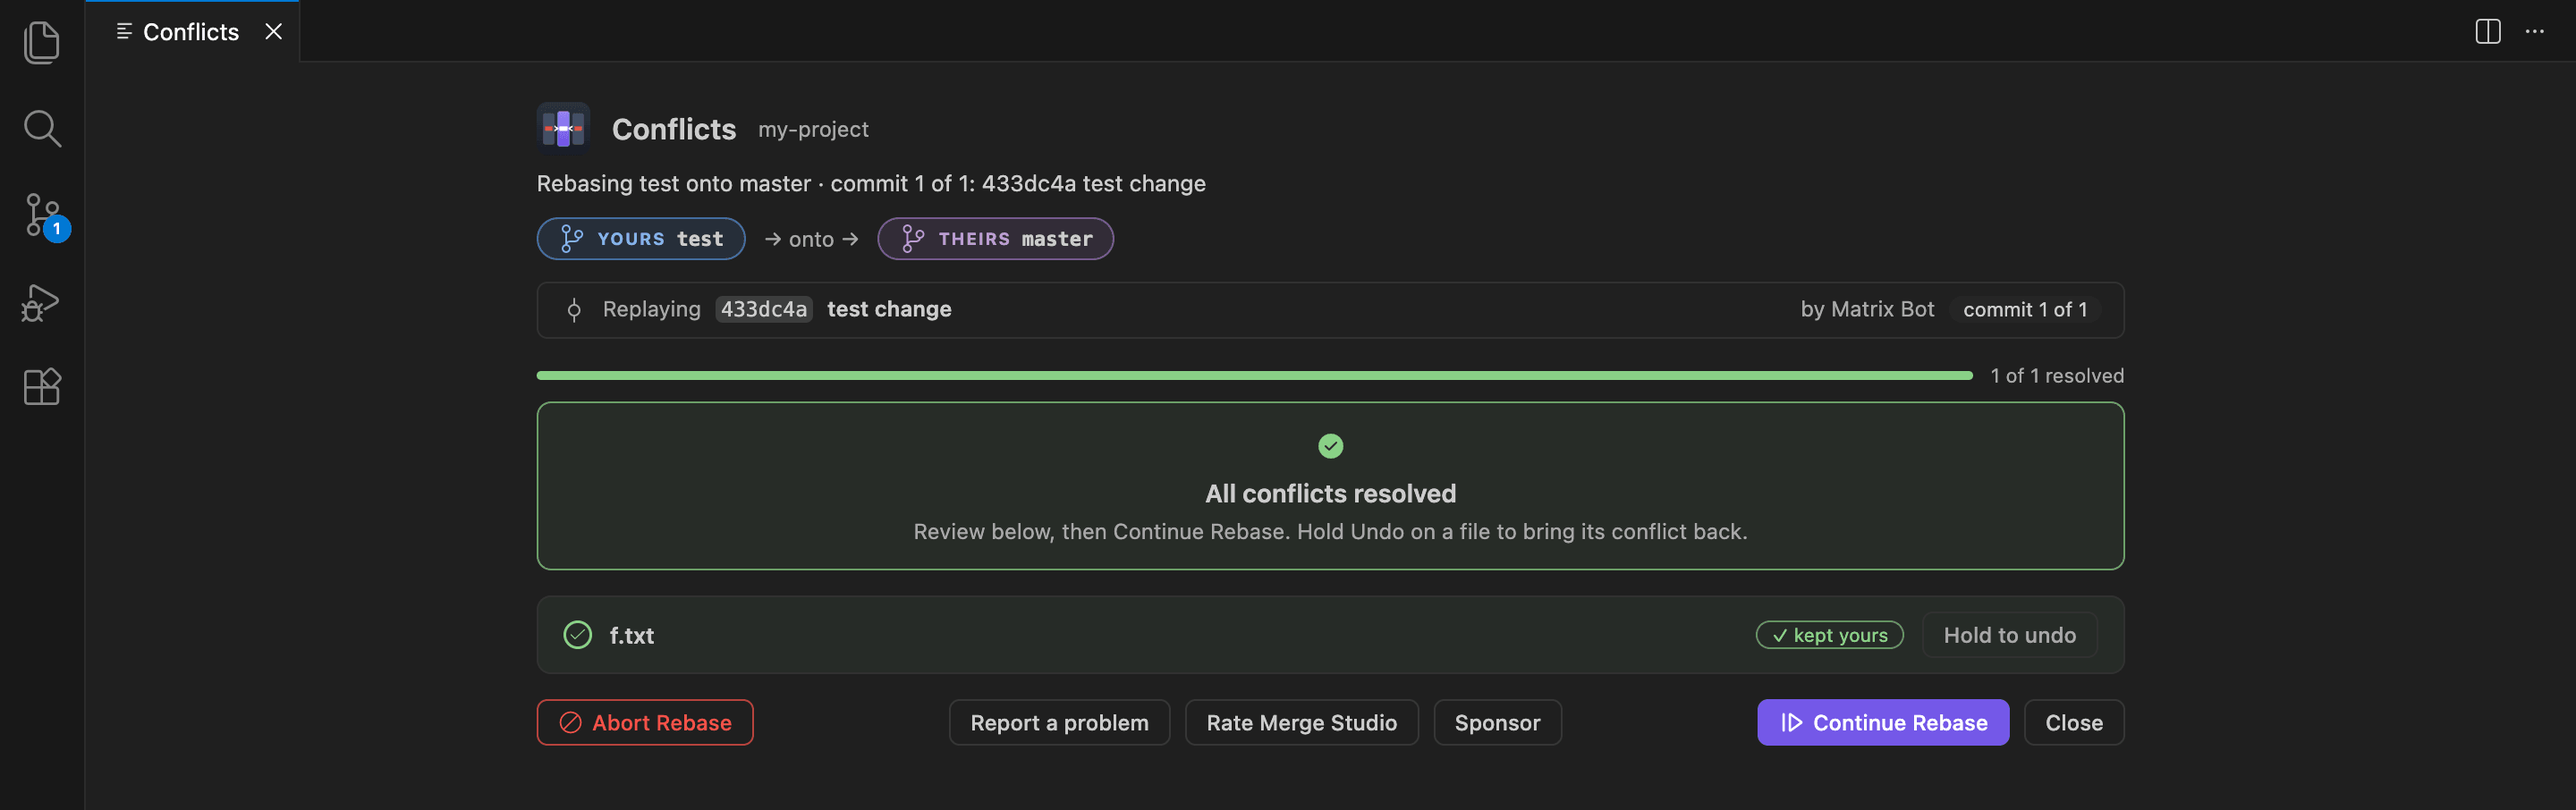
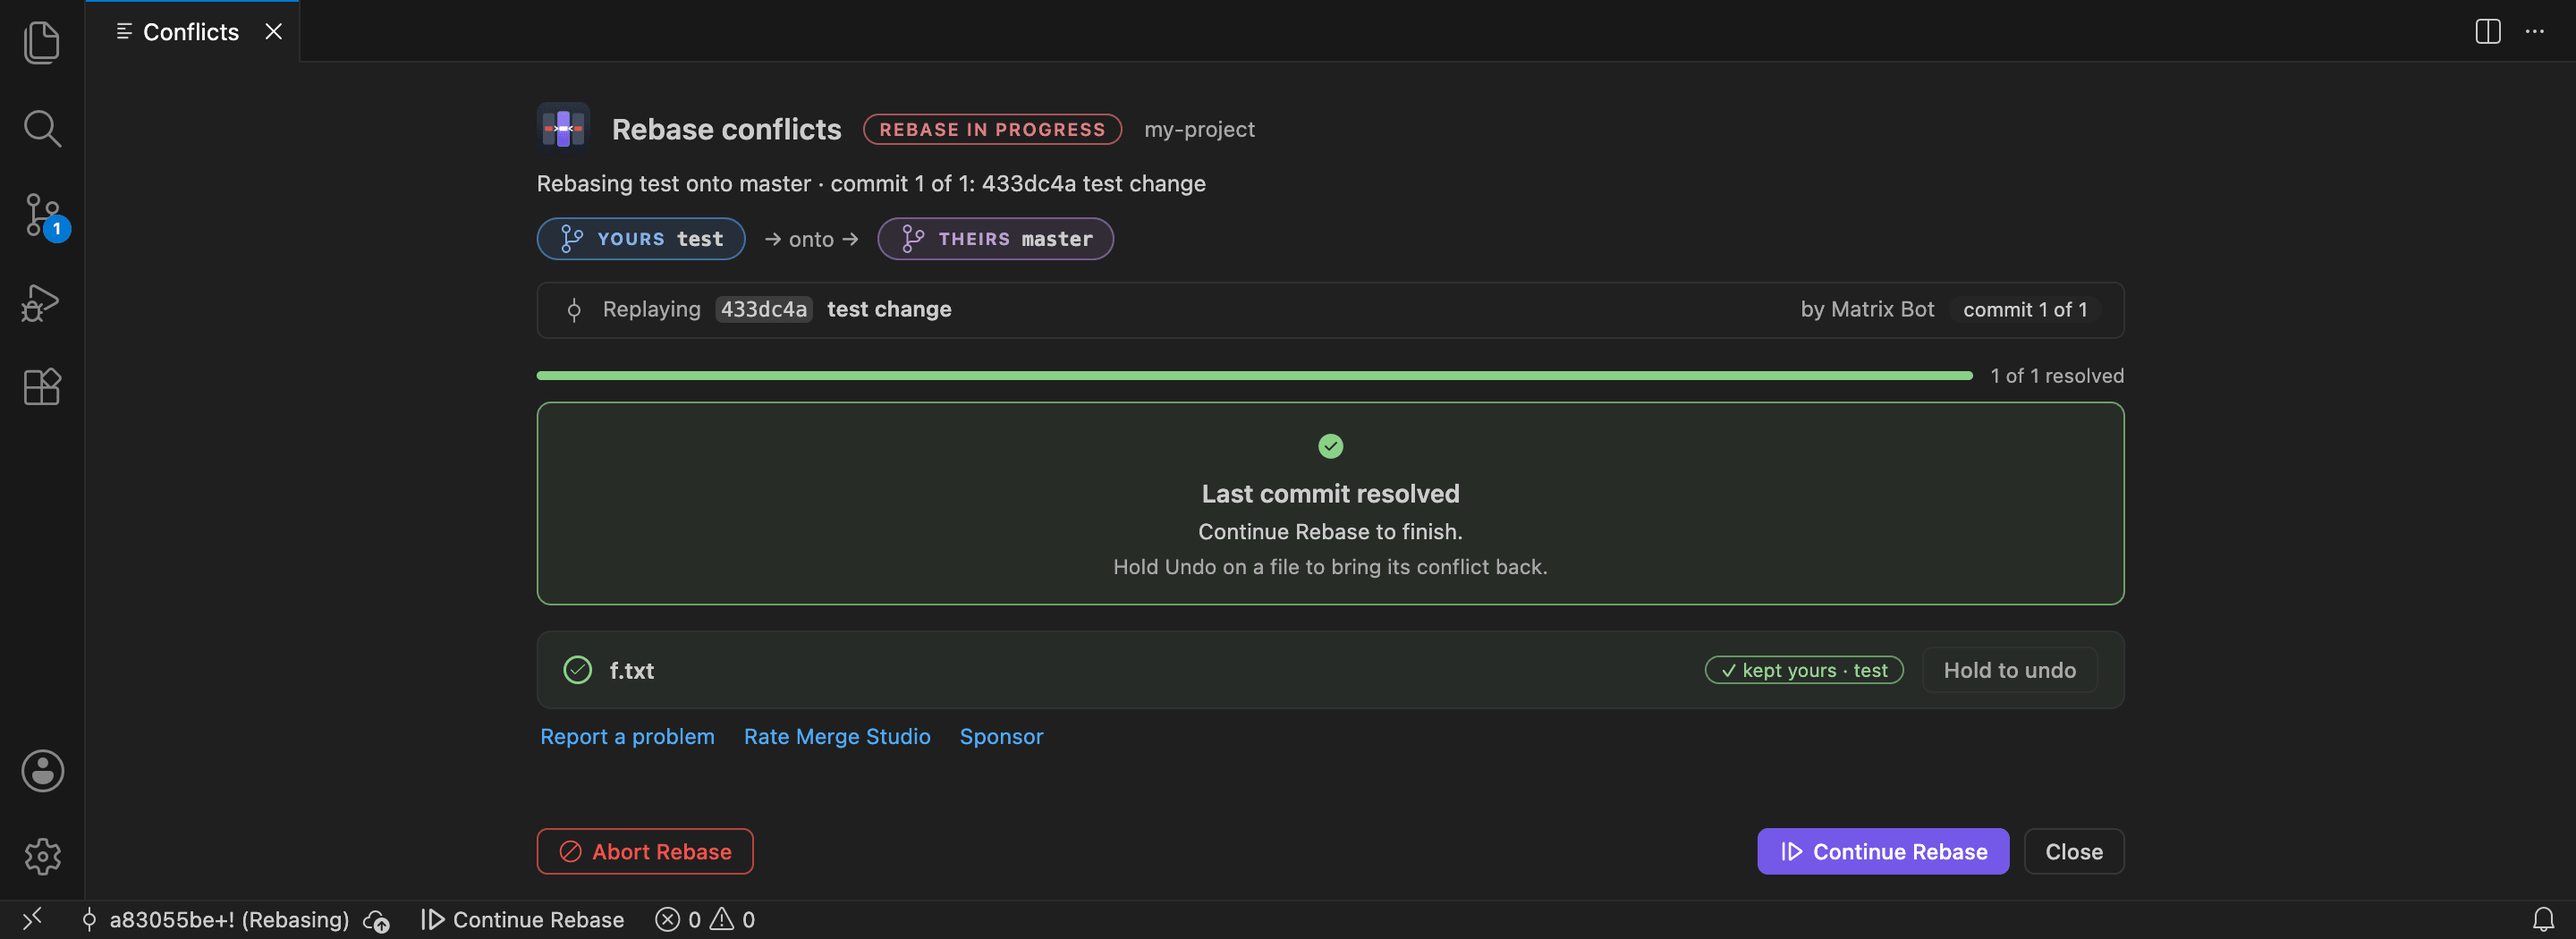
docs(merge-studio): re-take the captures this run's fixes changed
The listing and walkthrough showed the dashboard and the merge editor as
they were before r0923's fixes: "Conflicts" over the list, "All conflicts
resolved" at a rebase's last commit, a bare "kept yours" pill, the support
buttons in the footer, plain "Accept Yours / Accept Theirs", and the old
tints. Re-taken from the 1.0.9102 test VSIX (this branch) in isolated,
hidden VS Code 1.138 profiles, Default Dark / Light Modern at 2x, content
from the merge matrix, by the media lane's own steps:

- screenshots: dashboard-rebase, dashboard-done (a 1440x560 window: the
  dashboard fills its pane now and pins its footer), merge-editor-dark,
  merge-editor-light, legend;
- walkthrough, dark and light: sample-merge, legend, rebase-sides,
  dashboard.

Unchanged surfaces keep their captures (no-text panel, diff, the
first-conflict question, both settings frames). hero.gif is not re-taken.

README alt text and SHOTS.md say what the new captures show; SHOTS.md also
records why a hidden window must open at the size it is captured at.
manifest.test.ts pins the dashboard captures' words to the dashboard's.

diff --git a/apps/merge-studio/test/manifest.test.ts b/apps/merge-studio/test/manifest.test.ts
@@ -203,6 +203,21 @@ test("every README image exists", () => {
   for (const src of local) assert.ok(existsSync(join(ROOT, src)), src);
 });
 
+test("the dashboard captures' words are the dashboard's own, as the 1.0 build says them", () => {
+  // Re-taken when the dashboard learned to name the step (r0923): its heading
+  // is the operation's ("Rebase conflicts"), a rebase's last commit resolved
+  // reads "Last commit resolved", and a row's pill names the side's branch.
+  const alt = (file: string) => readme.match(new RegExp(`<img src="media/screenshots/${file}" alt="([^"]+)"`))?.[1] ?? "";
+  const rebase = alt("dashboard-rebase.png");
+  const done = alt("dashboard-done.png");
+  assert.match(rebase, /Rebase conflicts/, rebase);
+  assert.match(done, /Last commit resolved/, done);
+  assert.match(done, /kept yours · test/, done);
+  assert.doesNotMatch(done, /All conflicts resolved/, "the card a rebase shows at its last commit");
+  const shots = read("SHOTS.md");
+  assert.match(shots, /"Last commit resolved"/, "SHOTS.md describes the capture that exists");
+});
+
 // ── CHANGELOG (POLISH B5) ───────────────────────────────────────────────────
 
 const changelog = read("CHANGELOG.md");

diff --git a/apps/merge-studio/SHOTS.md b/apps/merge-studio/SHOTS.md
@@ -14,6 +14,10 @@ bar in frame. Dark shots in **Default Dark Modern**, light shots in
 Check each capture by DOM, not by eye: no "Accept Left", "Changes from
 server", "Your version" or "Screenshot pending" anywhere on screen.
 
+A hidden window paints no NEW frame, so open the window at the size the
+capture emulates (the media script's `winsize` before `launch`): with a
+viewport override of another size, `Page.captureScreenshot` waits forever.
+
 Content comes from the merge matrix (`scripts/merge-e2e/fixtures.sh` in
 gitstudio): `issue12.merge` and `issue12-exact.merge` (the #12 reporter's
 repository), plus the product's own Open Sample Merge and Open Sample Diff.
@@ -29,8 +33,8 @@ that tag. Window 1440×900.
 | `media/screenshots/hero.gif` | dark | 1200 px wide, under 8 s and 3 MB. A real rebase started in VS Code's terminal: the sample's three versions of `src/authorizeRequest.ts` as `feature/session-hardening` onto `main`, stopped at commit 2 of 3. The dashboard, Merge…, **All** (the changes only one side made), the wand (the simple conflict), then an arrow and a × on each of the other two conflicts, Apply, Continue Rebase, "Rebase complete". (The wand and one arrow alone leave conflicts open, and Apply then asks first.) |
 | `media/screenshots/merge-editor-dark.png` | dark | The sample merge (*Sample: authorizeRequest.ts*) with the legend in words: Conflicts in red, Changed / Added / Removed in blue, green and grey on one side, and on both sides for the change both sides made the same way. One conflict half taken and one change settled, so the half-done look and a settled change's trace are in the shot. |
 | `media/screenshots/merge-editor-light.png` | light | The same, in Light Modern (the README's colour section uses this one). |
-| `media/screenshots/dashboard-rebase.png` | dark | `issue12-exact`: the dashboard mid-rebase, YOURS test → onto → THEIRS master, "commit 1 of 1", the commit card, f.txt with Accept Yours / Accept Theirs / Merge…, Continue Rebase disabled with its reason. |
-| `media/screenshots/dashboard-done.png` | dark | `issue12-exact` after Accept Yours on f.txt: the success card, the row's pill and Hold to undo, Continue Rebase enabled. |
+| `media/screenshots/dashboard-rebase.png` | dark | `issue12-exact`: the dashboard mid-rebase, YOURS test → onto → THEIRS master, "commit 1 of 1", the commit card, f.txt with Accept Yours / Accept Theirs / Merge…, Continue Rebase disabled with its reason. A 1440×560 window: the dashboard fills its pane, footer pinned to the bottom, so a shorter window keeps Abort and Continue next to the list. |
+| `media/screenshots/dashboard-done.png` | dark | `issue12-exact` after Accept Yours on f.txt: the step's success card ("Last commit resolved"), the row's pill ("kept yours · test") and Hold to undo, Continue Rebase enabled. 1440×560, as above. |
 | `media/screenshots/legend.png` | dark | A tight crop of the legend, every colour named in words. |
 | `media/screenshots/no-text-panel.png` | dark | `issue12.merge`, `app/greeting.py` (edited in theirs, deleted in yours): the panel with **Delete the file** and **Accept Theirs**. |
 | `media/screenshots/diff.png` | dark | The side-by-side diff of the sample diff. |

diff --git a/apps/merge-studio/README.md b/apps/merge-studio/README.md
@@ -25,7 +25,7 @@
 
 During a rebase git swaps its own words: `--ours` is the branch you are rebasing onto, and `--theirs` is your commit. Merge Studio does not. **Yours** (left) is always your work, the commit being replayed, and **Theirs** (right) is the branch it is landing on. The header says which: *Rebasing test onto master · commit 1 of 3*.
 
-<p align="center"><img src="media/screenshots/dashboard-rebase.png" alt="The Conflicts dashboard mid-rebase: Rebasing test onto master, commit 1 of 1; YOURS test, onto, THEIRS master; the commit being replayed; f.txt with Accept Yours, Accept Theirs and Merge…; Abort Rebase, and Continue Rebase disabled because f.txt still has conflicts."></p>
+<p align="center"><img src="media/screenshots/dashboard-rebase.png" alt="The Conflicts dashboard mid-rebase, headed Rebase conflicts: Rebasing test onto master, commit 1 of 1; YOURS test, onto, THEIRS master; the commit being replayed; f.txt with Accept Yours, Accept Theirs and Merge…; Abort Rebase, and Continue Rebase disabled because f.txt still has conflicts."></p>
 
 ## Every change, colour-coded
 
@@ -54,7 +54,7 @@ dashboard opens it again.
 
 ## The Conflicts dashboard
 
-<p align="center"><img src="media/screenshots/dashboard-done.png" alt="The Conflicts dashboard with every file resolved: All conflicts resolved, f.txt marked kept yours with Hold to undo, and Continue Rebase ready."></p>
+<p align="center"><img src="media/screenshots/dashboard-done.png" alt="The Conflicts dashboard with every file resolved: Last commit resolved, Continue Rebase to finish; f.txt marked kept yours · test with Hold to undo; and Continue Rebase ready."></p>
 
 The dashboard opens the moment a merge, rebase, cherry-pick, revert, git am or stash pop stops on conflicts.
 
